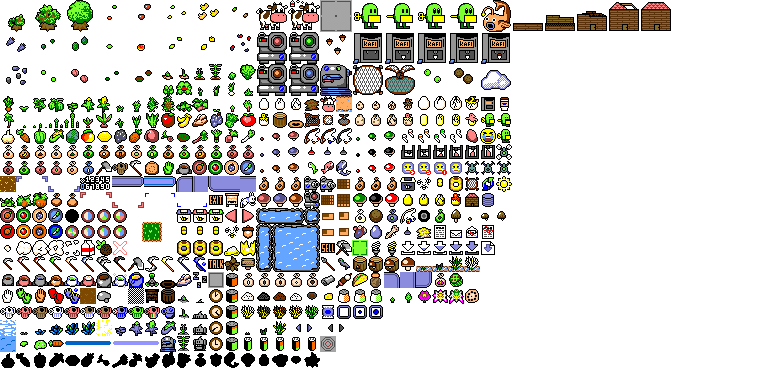
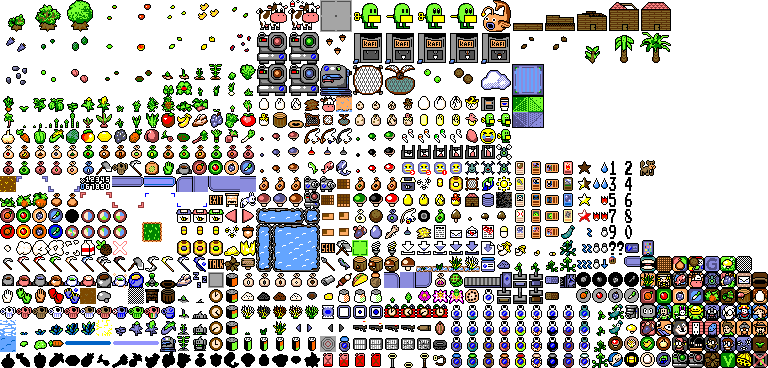
accounting for custom tree sprites in documentation

Changed region(s): [[0.4062, 0.4185, 1.0, 1.0], [0.6562, 0.1495, 0.7188, 0.3587], [0.7188, 0.0897, 0.875, 0.1793]]

diff --git a/guide_assets/metadata.js b/guide_assets/metadata.js
@@ -179,11 +179,12 @@ function DoCropGen() {
         if(["veg", "tree", "rice", "water", "mush", "egg", "tech"].indexOf(crop.type) >= 0) {
             var $stages = $template.find(".txt_stages");
             if(crop.type === "tree") {
-                $stages.append($("<span class = 'spriteTiny spriteTinyDouble sttree0'></span>"));
-                $stages.append($("<span class = 'spriteTiny spriteTinyDouble sttree1'></span>"));
-                $stages.append($("<span class = 'spriteTiny spriteTinyDouble sttree2'></span>"));
+                var treeType = crop.treeSprite || "tree";
+                $stages.append($("<span class = 'spriteTiny spriteTinyDouble st" + treeType + "0'></span>"));
+                $stages.append($("<span class = 'spriteTiny spriteTinyDouble st" + treeType + "1'></span>"));
+                $stages.append($("<span class = 'spriteTiny spriteTinyDouble st" + treeType + "2'></span>"));
                 for(var j = 3; j < crop.frames; j++) {
-                    $stages.append($("<span class='treeFill'><span class = 'spriteTiny spriteTinyDouble sttree2'></span><span class = 'spriteTiny spriteTinyDouble st" + crop.name + (j - 3) + "'></span></span>"));
+                    $stages.append($("<span class='treeFill'><span class = 'spriteTiny spriteTinyDouble st" + treeType + "2'></span><span class = 'spriteTiny spriteTinyDouble st" + crop.name + (j - 3) + "'></span></span>"));
                 }
             } else {
                 for(var j = 0; j < crop.frames; j++) {
